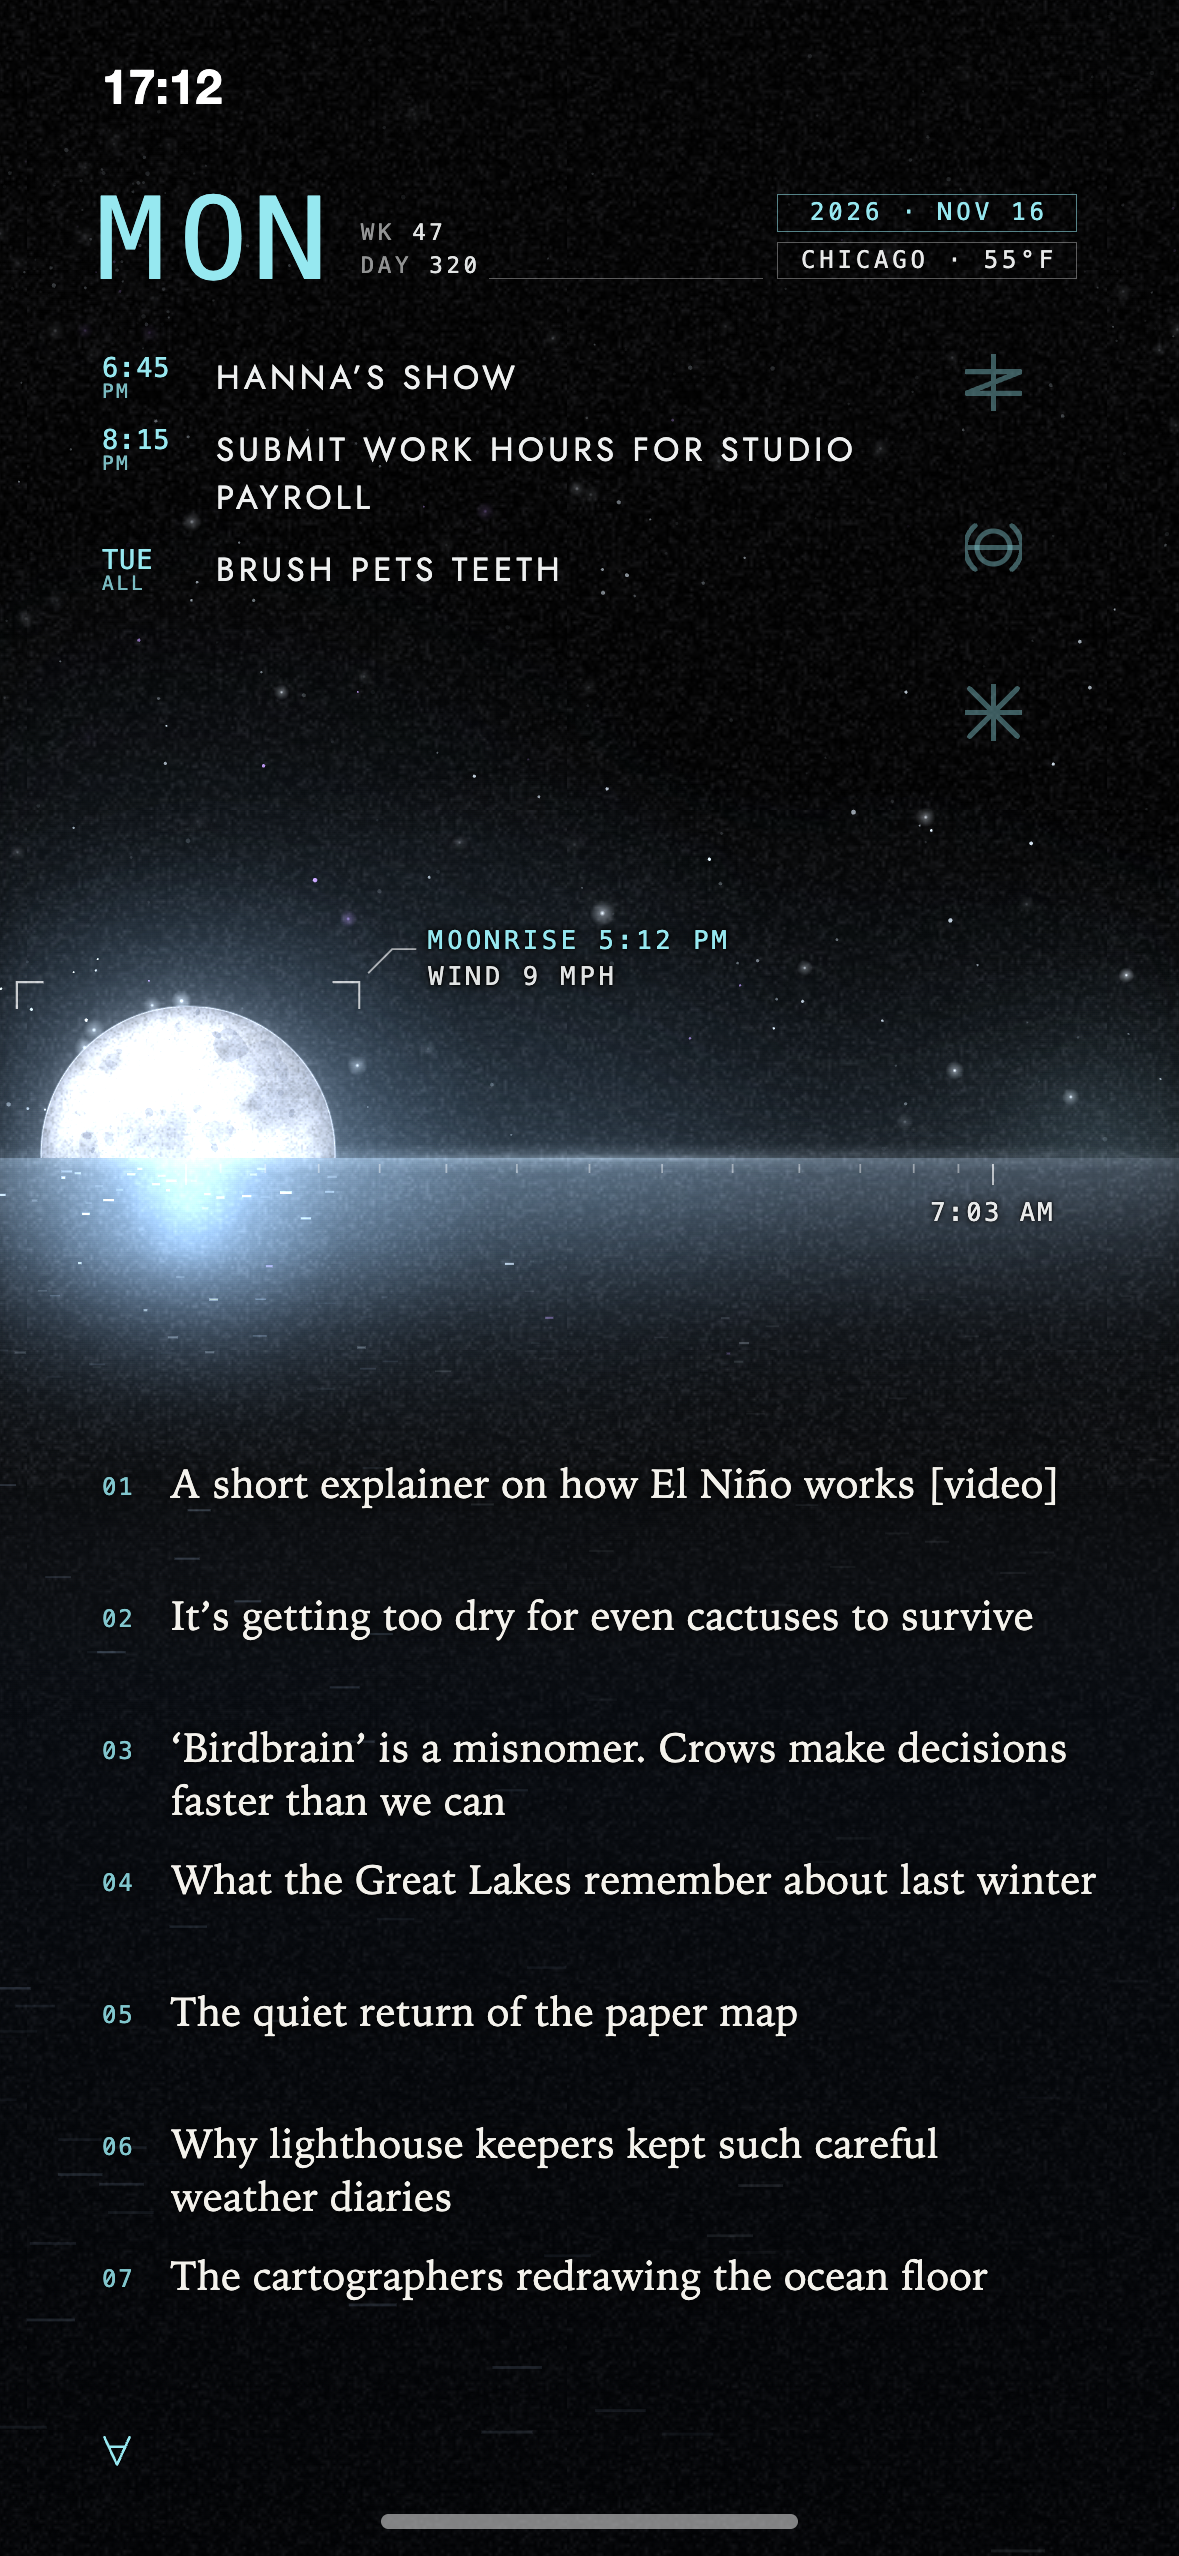
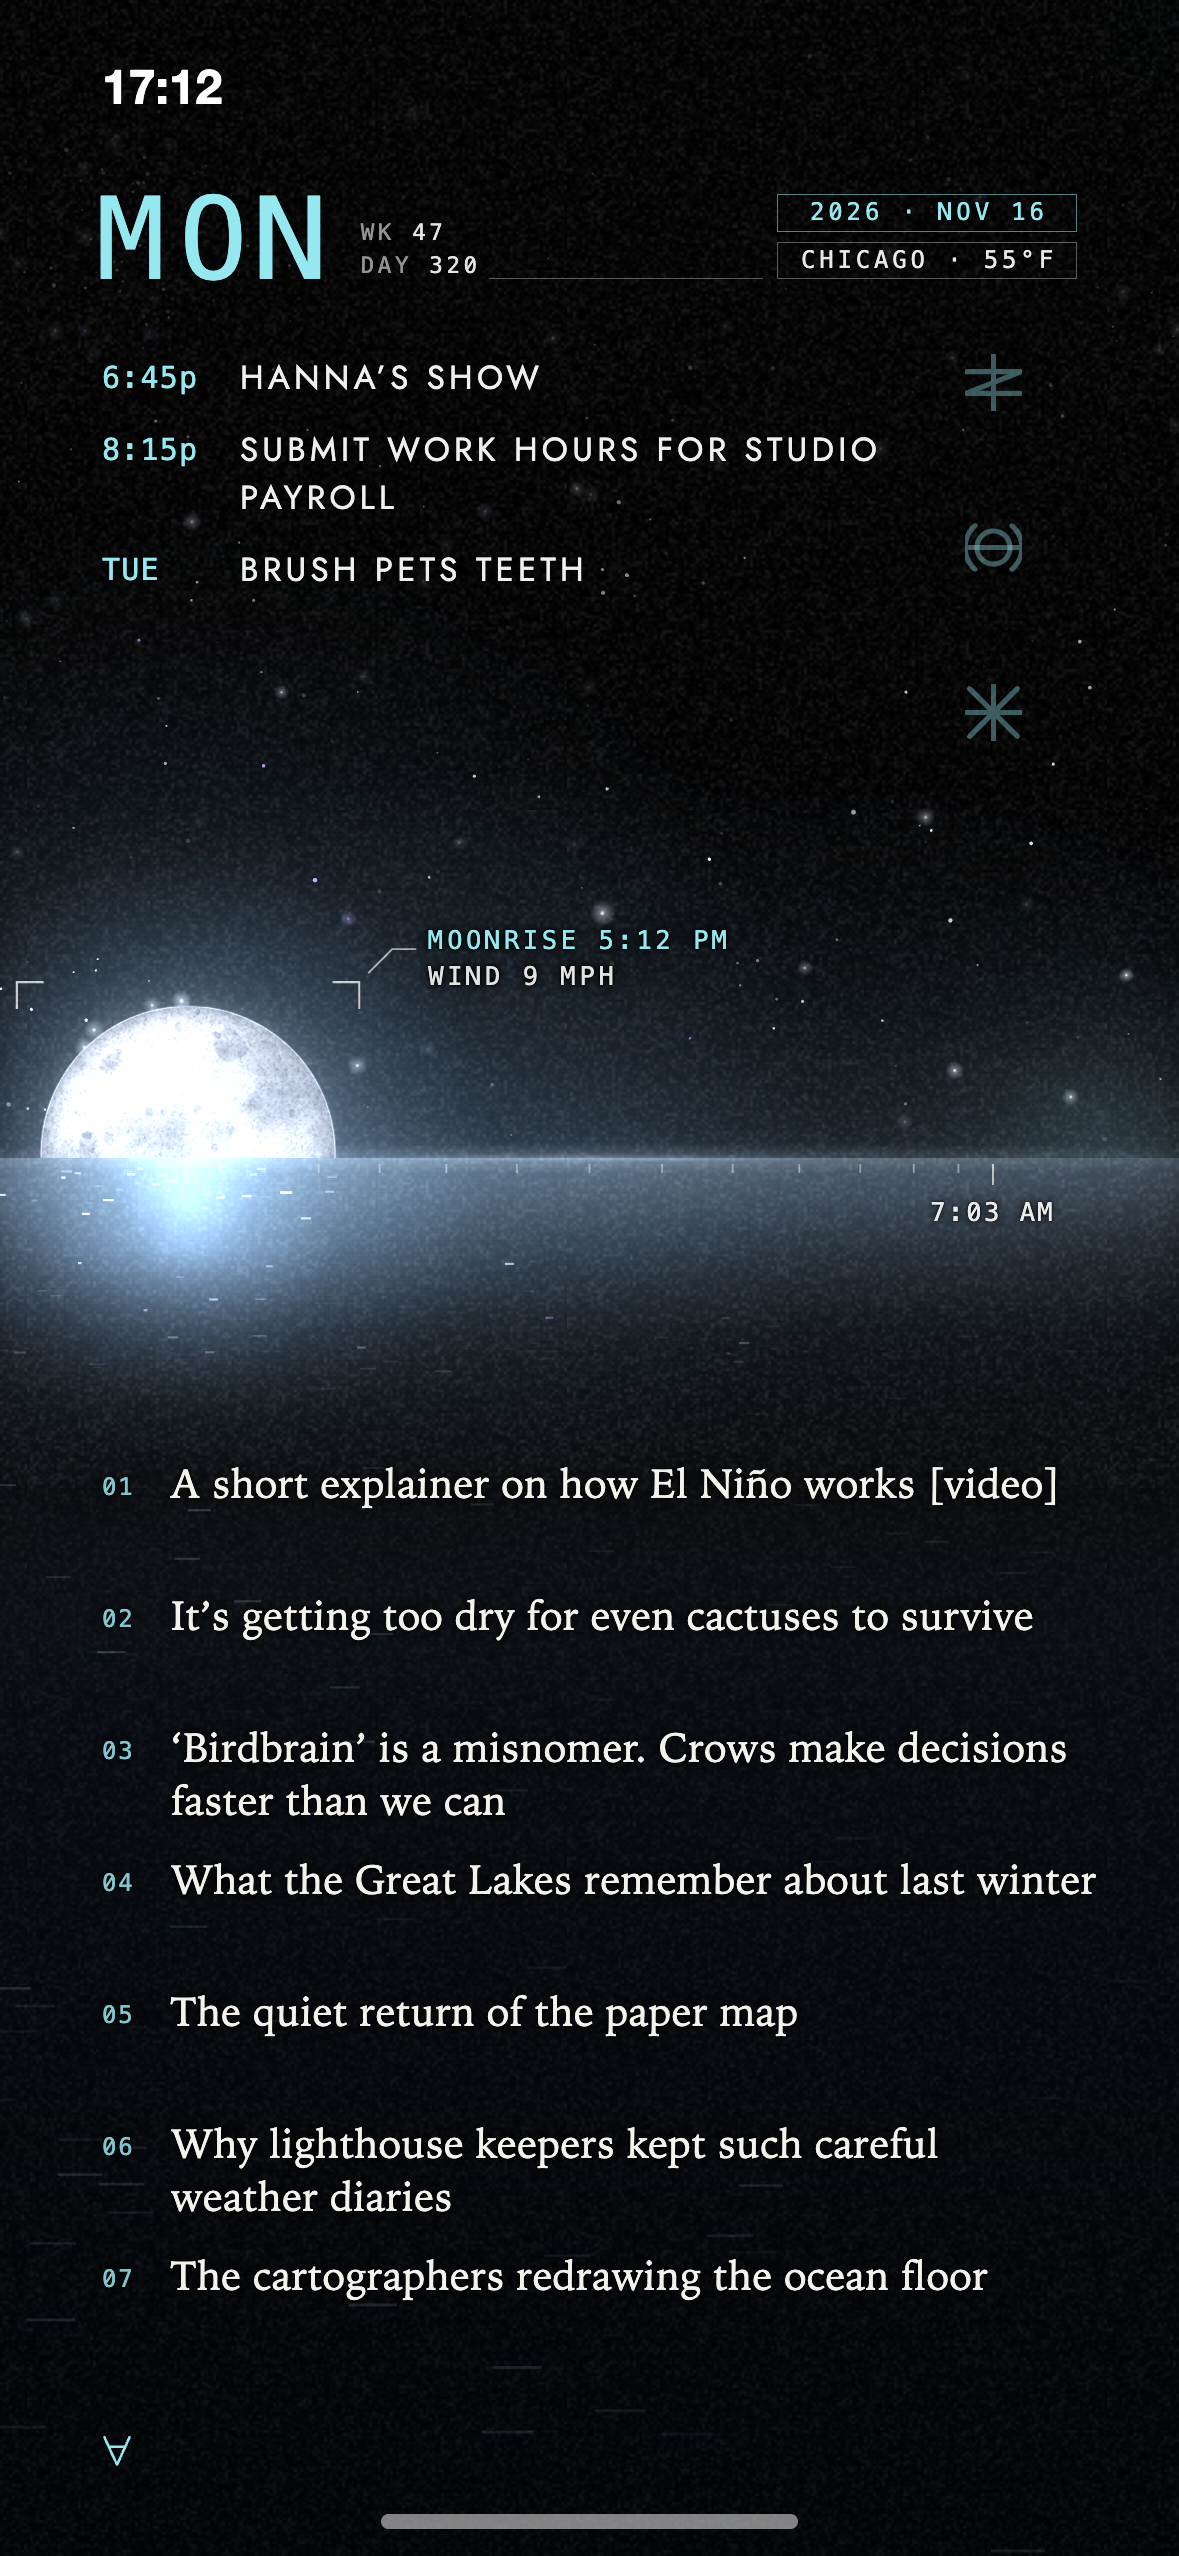
[#120] design-ideas/v8-lemuria: event times as 6:45p on one line

diff --git a/design-ideas/v8-lemuria/index.html b/design-ideas/v8-lemuria/index.html
@@ -47,11 +47,9 @@
   .link { left: 163px; top: 92.5px; width: 91.3px; height: 0; border-top: .5px solid rgba(255,255,255,.34); }
   .hero small em { font-style: normal; color: rgba(238,240,240,.95); }
   .events { left: 34px; top: 118px; width: 280px; margin: 0; padding: 0; list-style: none; font-size: 11px; letter-spacing: .13em; line-height: 16px; text-shadow: 0 0 5px rgba(0,0,0,.9); }
-  .events li { display: grid; grid-template-columns: 38px 1fr; margin-bottom: 8px; }
-  /* the time is stacked to keep its column narrow: the hour (or the day, for an all-day event) over a smaller AM, PM or ALL; the two lines together are one line of title text tall */
-  .events time { color: rgb(var(--teal)); display: flex; flex-direction: column; height: 16px; justify-content: center; text-shadow: none; }
-  .events time b { font-weight: inherit; font-size: 9px; line-height: 9px; letter-spacing: .03em; }
-  .events time b + b { font-size: 6.5px; line-height: 7px; letter-spacing: .14em; opacity: .8; }
+  .events li { display: grid; grid-template-columns: 46px 1fr; margin-bottom: 8px; }
+  /* the time is one short word: the hour with a small a or p straight after it (6:45p), or just the day for an all-day event */
+  .events time { color: rgb(var(--teal)); font-size: 10px; letter-spacing: .04em; text-transform: none; }
 
   /* below the horizon: the three symbols, then the article titles in the lower sea */
   svg.line { fill: none; stroke: rgb(var(--amber)); stroke-width: .085; stroke-linecap: round; stroke-linejoin: round; overflow: visible; }
@@ -115,9 +113,9 @@
     <div class="hero l"><b class="day" id="day">Mon</b><small>Wk <em>47</em><br>Day <em>320</em></small></div>
 
     <ul class="events">
-      <li><time class="mono"><b>6:45</b><b>PM</b></time><span>Hanna’s show</span></li>
-      <li><time class="mono"><b>8:15</b><b>PM</b></time><span>Submit work hours for studio payroll</span></li>
-      <li><time class="mono"><b>Tue</b><b>All</b></time><span>Brush pets teeth</span></li>
+      <li><time class="mono">6:45p</time><span>Hanna’s show</span></li>
+      <li><time class="mono">8:15p</time><span>Submit work hours for studio payroll</span></li>
+      <li><time class="mono">TUE</time><span>Brush pets teeth</span></li>
     </ul>
 
     <div class="tag" id="tag"><b id="tag1">Sun</b><span id="tag2">Wind 8 mph</span></div>

diff --git a/design-ideas/v8-lemuria/README.md b/design-ideas/v8-lemuria/README.md
@@ -43,9 +43,9 @@ At the user's request the row of four buttons was split. Settings, list and save
 
 Each title has a small mono number before it (`01`, `02`, …) in the ink colour, like a bullet; the titles start 23 points further right. v7 had dropped numbers at the user's request; the user asked for them back here in this smaller form.
 
-## Stacked event times (2026-11-18)
+## Short event times (2026-11-18)
 
-To give the event titles more width, each time is stacked: the hour (or the day, for an all-day event) over a smaller `AM`, `PM` or `ALL`, in the manner of the week and day note beside the day name. The time column went from 70 to 38 points. The user chose this over `6:45p` on one line and over a time line above each title.
+To give the event titles more width, each time is one short word: the hour with a small `a` or `p` straight after it (`6:45p`), and just the day (`TUE`) for an all-day event, which no longer says `ALL`. The time column went from 70 to 46 points. A stacked form (hour over a small `PM`, 38 points) was tried first; the user preferred this one.
 
 ## Tags on the sun and moon (2026-11-18, supersedes the tag description in the first pass below)
 

diff --git a/memory/notes/2026-11-16-design-ideas.md b/memory/notes/2026-11-16-design-ideas.md
@@ -76,3 +76,5 @@ Then (#109–#111): control labels removed; a hairline from the day number to th
 Then (#112, #113): the header line stops short of the place box; away from the horizon the sun's tag drops the word SUN and every tag sits level with the body (never above it); rise and set tags unchanged.
 
 Then (#114): settings, list, saved became a column at the right of the events; a smaller `∀` went to the lower left corner; horizon back up to y 386.
+
+Then (#115–#120): bare button column, muted to 38%, 36 points apart, centred on x 331 above the setting sun or moon; small numbers `01`… before the article titles (the user asked for them back); event times shortened to `6:45p` / `TUE` (a stacked hour-over-PM form was tried and dropped).

diff --git a/tasks/0120-design-ideas-v8-lemuria-event-times-as-6.md b/tasks/0120-design-ideas-v8-lemuria-event-times-as-6.md
@@ -1,0 +1,28 @@
+---
+id: 120
+title: design-ideas/v8-lemuria: event times as 6:45p on one line
+status: review
+owner: lead
+depends_on: []
+created: 2026-11-19T01:50:03Z
+updated: 2026-11-19T01:50:28Z
+---
+
+## Goal
+
+
+## Acceptance criteria
+
+
+## Relevant files
+
+
+## What's been tried
+
+
+## Log
+
+- 2026-11-19T01:50:03Z [lead] created (todo)
+- 2026-11-19T01:50:04Z [lead] status: todo → in-progress — claimed by lead
+- 2026-11-19T01:50:28Z [lead] Event times now 6:45p / 8:15p / TUE on one line; column 46pt. 12 stills re-rendered, mid-day events viewed at 2x; README, notes, thumbs updated.
+- 2026-11-19T01:50:28Z [lead] status: in-progress → review
